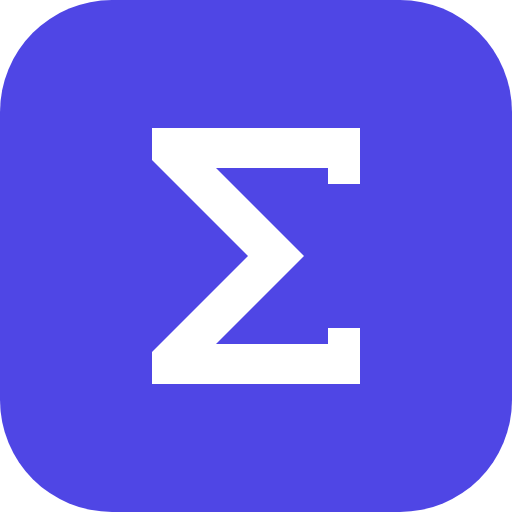
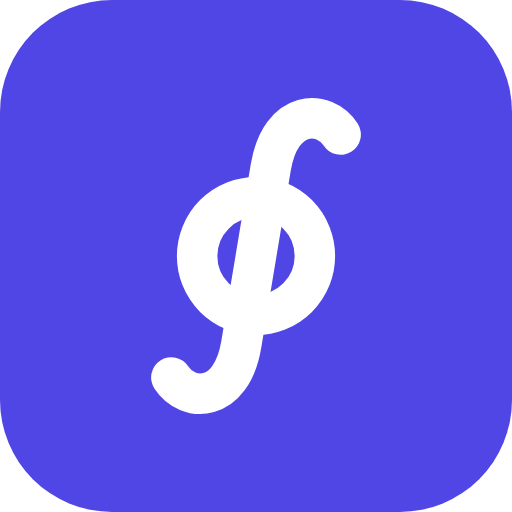
L'app installata si chiama «Glifo» e ha il simbolo ∮
- Nel manifest il nome è solo «Glifo» (prima «Glifo – appunti universitari»).
- Il simbolo passa dalla Σ a ∮, l'integrale su un percorso chiuso: è disegnato in
  src/ui/logo.ts, da cui vengono il marchio nella barra in alto e le icone.
- scripts/icons.mjs ridisegna con Chromium public/favicon.svg e le icone PNG
  (192 e 512 con gli angoli arrotondati, quella per Android e quella per iPhone
  con lo sfondo pieno e il simbolo dentro la zona che resta sempre visibile).
- Test: il favicon corrisponde al simbolo di adesso; nel browser il manifest dice
  «Glifo» e le icone sono quelle del simbolo, confrontate pixel per pixel.

Claude-Session: https://claude.ai/code/session_01RXPM1KnincAVgBvXaYLYqS

Changed region(s): [[0.2812, 0.1875, 0.7188, 0.8125]]

diff --git a/src/ui/logo.ts b/src/ui/logo.ts
@@ -1,0 +1,35 @@
+/**
+ * Il simbolo di Glifo: ∮, l'integrale su un percorso chiuso, a tratto pieno come le icone
+ * dell'interfaccia. Da qui vengono il marchio nella barra in alto e le icone dell'app in
+ * `public/`, che si ridisegnano con `node scripts/icons.mjs`.
+ */
+
+/** In un quadrato di 64 unità: l'integrale, inclinato come nelle formule, e l'anello al centro. */
+const GLYPH = '<path d="M43.5 15.5C41.3 12.1 35.35 11.91 34 20L30 44C28.65 52.09 22.7 51.9 20.5 48.5"/><circle cx="32" cy="32" r="8"/>'
+
+export const LOGO_COLOR = '#4f46e5'
+
+/** Il simbolo del colore `color`, rimpicciolito di `scale` attorno al centro del quadrato. */
+function glyph(color: string, scale: number): string {
+  return `<g fill="none" stroke="${color}" stroke-width="5.5" stroke-linecap="round" transform="translate(32 32) scale(${scale}) translate(-32 -32)">${GLYPH}</g>`
+}
+
+/** Il marchio nella barra in alto: il simbolo del colore del testo, sullo sfondo dato dal CSS. */
+export function logoMark(): string {
+  return `<svg viewBox="0 0 64 64" width="28" height="28" aria-hidden="true">${glyph('currentColor', 0.92)}</svg>`
+}
+
+/**
+ * L'icona dell'app, bianca su indaco. `full`: lo sfondo arriva fino agli angoli e il simbolo è
+ * più piccolo, per telefoni e tablet che ritagliano l'icona con la loro forma.
+ */
+export function logoIcon(full = false): string {
+  const background = full ? `<rect width="64" height="64" fill="${LOGO_COLOR}"/>` : `<rect width="64" height="64" rx="14" fill="${LOGO_COLOR}"/>`
+  return [
+    '<svg xmlns="http://www.w3.org/2000/svg" viewBox="0 0 64 64">',
+    `  ${background}`,
+    `  ${glyph('#fff', full ? 0.8 : 0.92)}`,
+    '</svg>',
+    '',
+  ].join('\n')
+}

diff --git a/src/main.ts b/src/main.ts
@@ -49,6 +49,7 @@ import {
 } from './account/supabase'
 import { SyncError, type LocalChange } from './account/sync'
 import { AccountButton, confirmAccountDeletion, openAccountDialog, openLoginDialog, type SignedIn } from './ui/account'
+import { logoMark } from './ui/logo'
 import { NotesPanel } from './ui/notesPanel'
 import { Preview } from './ui/preview'
 import { PaneResizer } from './ui/resize'
@@ -158,7 +159,7 @@ const topbar = h(
   h(
     'div',
     { class: 'brand' },
-    h('span', { class: 'brand-mark', attrs: { 'aria-hidden': 'true' } }, 'Σ'),
+    h('span', { class: 'brand-mark', attrs: { 'aria-hidden': 'true' }, html: logoMark() }),
     h('span', { class: 'brand-name' }, 'Glifo'),
   ),
   h('div', { class: 'doc-info' }, titleEl, statusEl),

diff --git a/tests/logo.test.ts b/tests/logo.test.ts
@@ -1,0 +1,14 @@
+import { describe, expect, it } from 'vitest'
+import favicon from '../public/favicon.svg?raw'
+import { logoIcon, logoMark } from '../src/ui/logo'
+
+describe('il simbolo di Glifo', () => {
+  it('l\'icona del sito è ridisegnata dal simbolo di adesso (node scripts/icons.mjs)', () => {
+    expect(favicon).toBe(logoIcon())
+  })
+
+  it('nella barra in alto prende il colore del tema', () => {
+    expect(logoMark()).toContain('stroke="currentColor"')
+    expect(logoIcon()).toContain('stroke="#fff"')
+  })
+})

diff --git a/vite.config.ts b/vite.config.ts
@@ -26,7 +26,7 @@ export default defineConfig({
           registerType: 'autoUpdate',
           includeAssets: ['favicon.svg', 'apple-touch-icon.png'],
           manifest: {
-            name: 'Glifo – appunti universitari',
+            name: 'Glifo',
             short_name: 'Glifo',
             description: 'Appunti in Markdown per ogni materia: formule LaTeX con anteprima dei simboli, codice, tabelle.',
             lang: 'it',

diff --git a/src/styles/app.css b/src/styles/app.css
@@ -229,6 +229,7 @@ kbd {
   white-space: nowrap;
 }
 
+/* Il simbolo ∮ (src/ui/logo.ts), come nell'icona dell'app. */
 .brand-mark {
   display: grid;
   place-items: center;
@@ -237,8 +238,6 @@ kbd {
   border-radius: 8px;
   background: var(--accent);
   color: var(--on-accent);
-  font-size: 17px;
-  font-weight: 800;
 }
 
 .doc-info {

diff --git a/README.md b/README.md
@@ -236,7 +236,7 @@ src/
     lists.ts              elenchi con tutti i marcatori e rientri comodi nell'anteprima
     katex.ts              disegno delle formule, messaggi di errore in italiano
   ui/                     pannello dei simboli, anteprima, elenco appunti, finestre,
-                          bordi da trascinare tra le sezioni (resize.ts)
+                          bordi da trascinare tra le sezioni (resize.ts), il simbolo ∮ (logo.ts)
   store/                  salvataggio nel browser, file .md, impostazioni, misure delle sezioni (layout.ts)
   ai/assistant.ts         assistente AI
   account/
@@ -250,6 +250,7 @@ privacy.html              l'informativa sulla privacy (una seconda pagina, fuori
 tests/                    test automatici (Vitest), anche del database con le vere migrazioni (PGlite)
 scripts/smoke-test.mjs    prova nel browser del flusso principale
 scripts/account-test.mjs  prova nel browser dell'account, con un Supabase finto (fake-supabase.mjs)
+scripts/icons.mjs         ridisegna favicon e icone dell'app dal simbolo in src/ui/logo.ts
 supabase/                 il database degli account: tabelle, regole di accesso e i loro test
 ```
 

diff --git a/CLAUDE.md b/CLAUDE.md
@@ -19,6 +19,8 @@ installabile come app, pubblicato su GitHub Pages: non c'è un server.
   (`scripts/fake-supabase.mjs`). Serve Chromium: indica il percorso con `CHROMIUM_PATH`
   (nelle sessioni cloud `/opt/pw-browsers/chromium`).
 - `GLIFO_NO_PWA=1 npx vite build`: build senza service worker (per la demo su claude.ai).
+- `node scripts/icons.mjs`: ridisegna `public/favicon.svg` e le icone PNG dell'app dal simbolo
+  ∮ in `src/ui/logo.ts` (serve `CHROMIUM_PATH`). Va rifatto ogni volta che cambia il simbolo.
 
 ## Dove sono le cose
 
